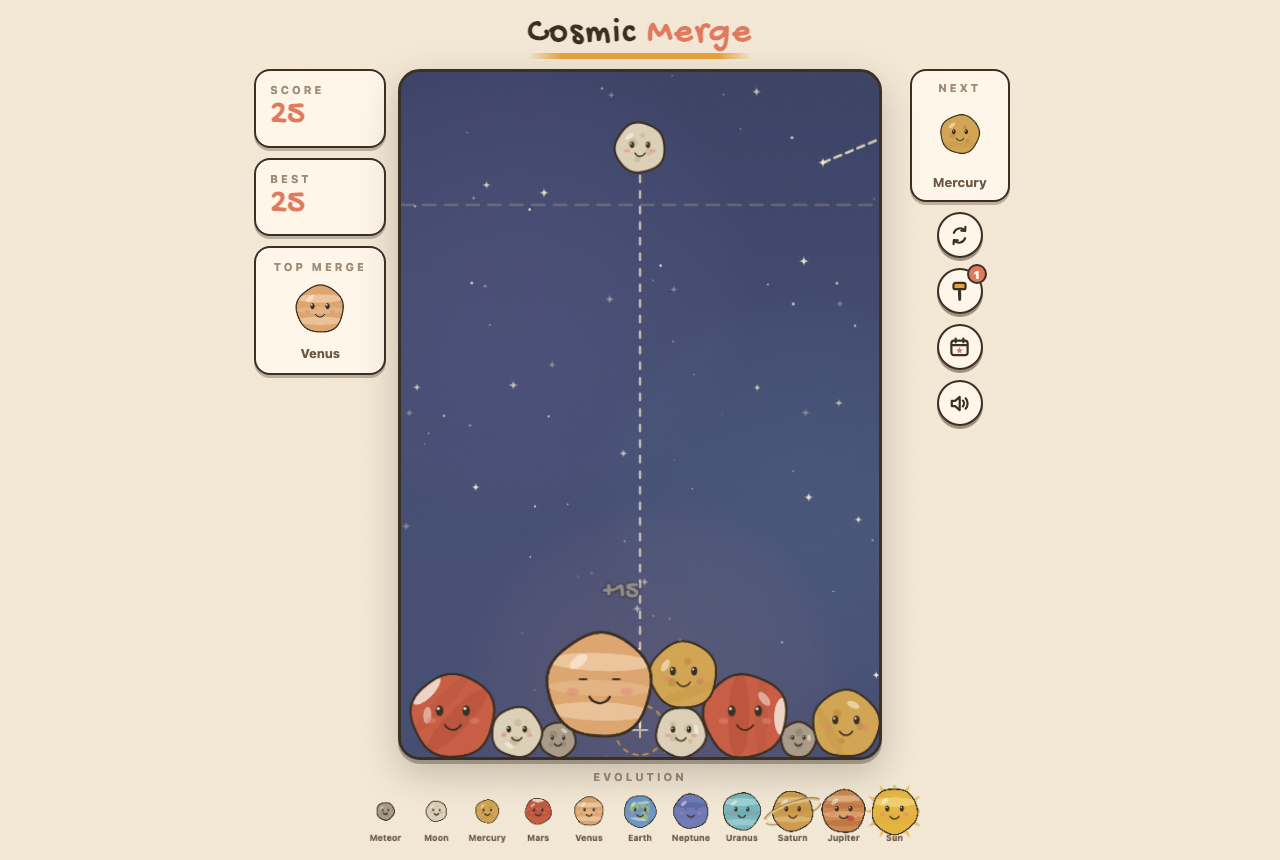
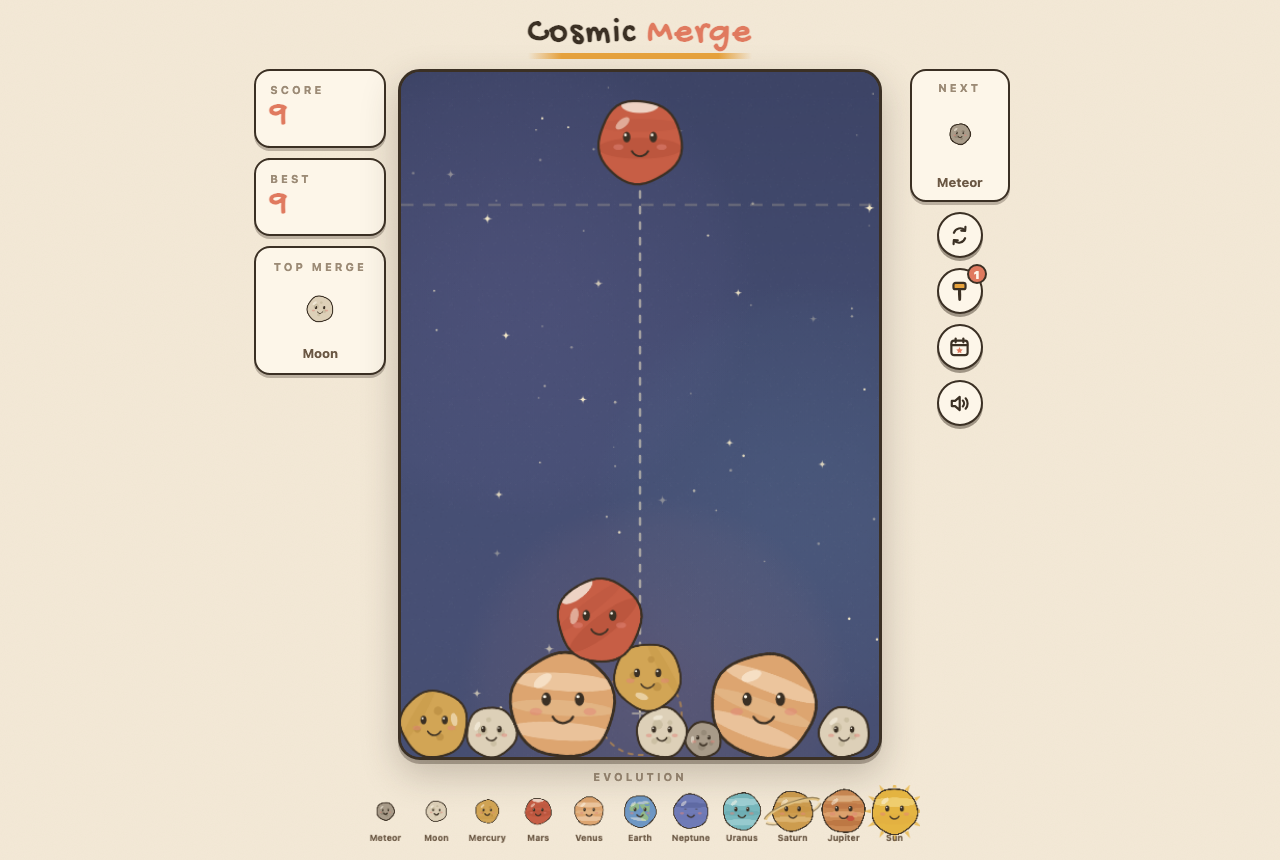
ci+pwa: force Node 24 in Actions; network-first SW for fresh updates
- deploy.yml: set FORCE_JAVASCRIPT_ACTIONS_TO_NODE24 to silence the
  Node 20 deprecation warning and run JS actions on Node 24.
- sw.js: navigations now go network-first (latest version shows on a
  single reload when online, falls back to cache offline); other GETs
  are cache-first since Vite asset filenames are content-hashed. Cache
  bumped v1 -> v2 so the old stale-while-revalidate cache is purged.

diff --git a/public/sw.js b/public/sw.js
@@ -1,5 +1,9 @@
-/** 離線支援：同源 GET 走 stale-while-revalidate */
-const CACHE = 'cosmic-merge-v1'
+/**
+ * 離線支援：
+ * - HTML 導覽 → network-first（線上永遠拿最新版，離線退回快取）
+ * - 其餘同源 GET（hashed 資源、圖片）→ cache-first（檔名帶 hash，內容不變）
+ */
+const CACHE = 'cosmic-merge-v2'
 
 self.addEventListener('install', () => {
   self.skipWaiting()
@@ -17,16 +21,29 @@ self.addEventListener('activate', event => {
 self.addEventListener('fetch', event => {
   const { request } = event
   if (request.method !== 'GET' || !request.url.startsWith(self.location.origin)) return
+
+  // HTML 導覽：network-first → 更新立刻可見，離線退快取
+  if (request.mode === 'navigate') {
+    event.respondWith(
+      fetch(request)
+        .then(res => {
+          const copy = res.clone()
+          caches.open(CACHE).then(c => c.put(request, copy))
+          return res
+        })
+        .catch(async () => (await caches.match(request)) || caches.match('./')),
+    )
+    return
+  }
+
+  // 其餘資源：cache-first，未命中再抓網路並補快取
   event.respondWith(
     caches.open(CACHE).then(async cache => {
       const cached = await cache.match(request)
-      const network = fetch(request)
-        .then(res => {
-          if (res.ok) cache.put(request, res.clone())
-          return res
-        })
-        .catch(() => cached)
-      return cached || network
+      if (cached) return cached
+      const res = await fetch(request)
+      if (res.ok) cache.put(request, res.clone())
+      return res
     }),
   )
 })
